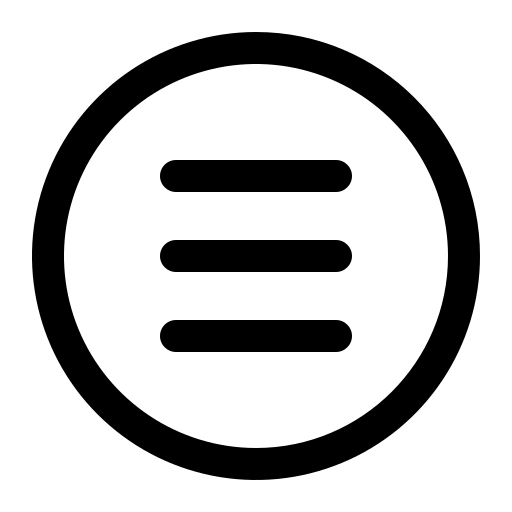
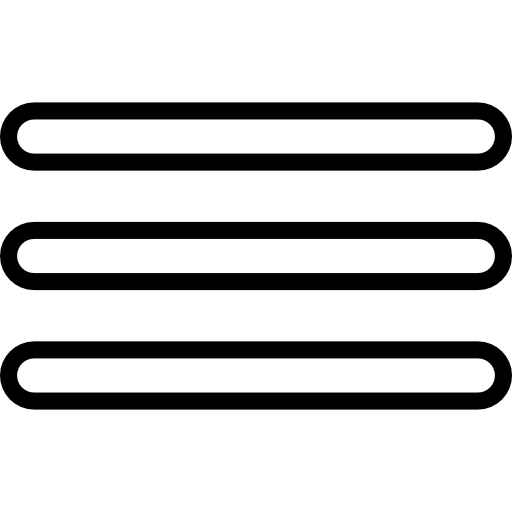
nav bar responsive y cambios carousel

diff --git a/index.html b/index.html
@@ -24,14 +24,16 @@
     <header class="header">
         
         <div class="logo-header">
-           <a href="index.html" class="logo"><img class="logobarbell" src="multimedia/logo.ico" alt="LogoBarbellBox"></a>
+           <a href="index.html" class="logo"><img class="logobarbell" src="multimedia/logo (2).ico"  alt="LogoBarbellBox"></a>
         </div>
 
         <nav class="nav-menu">
 
             <input type="checkbox" id="check">
             <label for="check" class="checkbtn">
-                <img class="icon" src="/multimedia/menu3.png" alt="">
+                <i class="menu-icon">
+                    <img src="/multimedia/menu.png" width="25" height="25" alt="">
+                </i>
             </label>
 
            <ul>       
@@ -56,22 +58,22 @@
                 <div id="carouselExampleControls" class="carousel slide" data-bs-ride="carousel">
                     <div class="carousel-inner carousel-bt">
                       <div class="carousel-item active">
-                        <img src="multimedia/imagenes/discos.jpg" class="d-inline-block img-fluid w-50 ejercicio" alt="Ejercicio1">
+                        <img src="multimedia/imagenes/discos.jpg" class="d-inline-block img-fluid w-100 ejercicio" alt="Ejercicio1">
                       </div>
                       <div class="carousel-item">
-                        <img src="multimedia/imagenes/estocada.webp" class="d-inline-block img-fluid w-50 ejercicio" alt="Ejercicio2">
+                        <img src="multimedia/imagenes/estocada.webp" class="d-inline-block img-fluid w-100 ejercicio" alt="Ejercicio2">
                       </div>
                       <div class="carousel-item">
-                        <img src="multimedia/imagenes/press.jpg" class="d-inline-block img-fluid w-50 ejercicio" alt="Ejercicio3">
+                        <img src="multimedia/imagenes/press.jpg" class="d-inline-block img-fluid w-100 ejercicio" alt="Ejercicio3">
                       </div>
                       <div class="carousel-item">
-                        <img src="multimedia/imagenes/snatch.jpg" class="d-inline-block img-fluid w-50 ejercicio" alt="Ejercicio4">
+                        <img src="multimedia/imagenes/snatch.jpg" class="d-inline-block img-fluid w-100 ejercicio" alt="Ejercicio4">
                       </div>
                       <div class="carousel-item">
-                        <img src="multimedia/imagenes/teen.webp" class="d-inline-block img-fluid w-50 ejercicio" alt="Ejercicio5">
+                        <img src="multimedia/imagenes/teen.webp" class="d-inline-block img-fluid w-100 ejercicio" alt="Ejercicio5">
                       </div>
                       <div class="carousel-item">
-                        <img src="multimedia/imagenes/squat2.jpg" class="d-inline-block img-fluid w-50 ejercicio" alt="Ejercicio6">
+                        <img src="multimedia/imagenes/squat2.jpg" class="d-inline-block img-fluid w-100 ejercicio" alt="Ejercicio6">
                       </div>
                     </div>
                     <button class="carousel-control-prev" type="button" data-bs-target="#carouselExampleControls" data-bs-slide="prev">

diff --git a/style.css b/style.css
@@ -33,7 +33,7 @@ header{
     top: 0%;
     position: sticky;
     display: flex;
-    justify-content: space-between;
+    justify-content: space-around;
     align-items: center;
     padding: .5rem 2rem;
     z-index: 20;
@@ -47,6 +47,7 @@ header{
 }
 .nav-menu li{
     margin-right: 1.5rem;
+    transition: all 0.5s;
     
 }
 
@@ -66,50 +67,66 @@ header{
     border: 2px solid #93bdec;
 }
 
-
-
-/* .nav{
-    width: 100%;
-    display: flex;
-    justify-content: space-evenly;
-    align-items: center;
-}
-
-nav a :hover {
-    color: #61a5f3;
-
-}
-
-.nav li :last-child{
-    background-color: #0a78f7;
-    border: 2px solid #0a78f7;
-    padding: 0.25rem 0.75rem;
-    border-radius: 0.2rem;
-}
-
-nav.a{
-    margin-top: 2px;
-}
-
-.nav_ul{
-    display: flex;
-    align-items: flex-end;
-    list-style-type: none;
-}
-
-.nav_li{
-    color:#09458a;
-    padding: 12px;
-    
+.menu-icon img{
+    width: 30px;
+    height: 30px;
     
 }
 
-.nav_li a{
-    color: #09458a;
-    text-decoration: none;
+.menu-icon, #check{
+    display: none;
+}
+
+@media (max-width:768px){
+    .checkbtn{
+        display: block;
+    }
+
+    .menu-icon{
+        display: block;
+        position: fixed;
+        top: 30px;
        
-} */
- 
+        cursor: pointer;
+    }
+
+    .nav-menu ul{
+        display: block;
+        position: fixed;
+        top: 70px;
+        left: -200%;
+        background: #2c2c2c;
+        width: 100%;
+        height: 100vp;
+        right: 0;
+    }
+
+    .nav-menu ul li{
+        padding: 2rem;
+        display: flex;
+        justify-content: center;
+        margin: 0;
+
+    }
+
+    .nav-menu ul li:last-child{
+        background: none;
+        padding: 1rem;
+        border: none;   
+    }
+
+    .nav-menu li:last-child:hover{
+        background: none;
+        border: none;
+    }
+
+    #check:checked ~ ul{
+        left: 0;
+        transition: all 0.25s;
+    }
+
+}
+
 
 
 .main{
